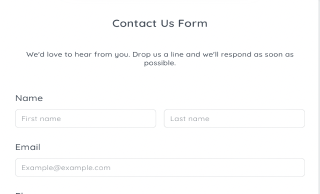
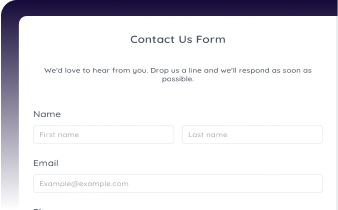
fit: added full home page

diff --git a/src/components/Templates/style.module.css b/src/components/Templates/style.module.css
@@ -1,0 +1,106 @@
+.template {
+    max-width: 1128px;
+    width: 100%;
+    margin-bottom: 80px;
+}
+  
+  .template_wrapper {
+    display: flex;
+    justify-content: space-between;
+    align-items: center;
+    width: 100%;
+}
+  
+.template_wrapper_title {
+    font-family: Quicksand;
+    font-weight: 700;
+    font-size: 32px;
+    line-height: 48px;
+    letter-spacing: 0.4px;
+    color: #3D3D3F;
+}
+  
+.btn_see_more {
+    display: flex;
+    align-items: center;
+    justify-content: space-between;
+    max-width: 110px;
+    width:100%;
+    font-family: Quicksand;
+    font-weight: 500;
+    font-size: 16px;
+    line-height: 20px;
+    letter-spacing: 0.25px;
+    color: #434E5A;
+    border: none;
+    background-color: white;
+}
+  
+  .see_more {
+    /* Your styles for the "See more" text */
+  }
+  
+.teamplate_wrapper_blocks {
+    width: 100%;
+    display: flex;
+    justify-content: space-between ;
+    margin-top: 30px;
+
+}
+  
+  .template_wrapper_block {
+    /* Your styles for each block div */
+  }
+  
+  .templates_background {
+    display: flex;
+    flex-direction: column;
+    max-width: 354px;
+    width: 100%;
+    border: 1px solid #687583;
+    border-radius: 16px;
+    padding-top: 16px;
+    padding-left:16px;
+    position: relative;
+}
+  
+  .contact_us_form_img {
+    /* Your styles for the image */
+  }
+  
+  .title {
+    font-family: Quicksand;
+    font-weight: 700;
+    font-size: 20px;
+    line-height: 25px;
+    letter-spacing: 0.4px;
+    color: #434E5A;
+    margin: 10px 0;
+}
+  
+  .textarea {
+    font-family: Quicksand;
+    font-weight: 400;
+    font-size: 16px;
+    line-height: 20px;
+    color: #434E5A;
+    margin-bottom: 40px;
+}
+  
+  .text {
+    position: absolute;
+    top: 90.5%;
+    right: -1px;
+    font-family: Quicksand;
+    list-style: none;
+    width: 174px;
+    height: 36px;
+    background-color: #3E1AAB;
+    border-radius: 16px 0 16px 0;
+    color:white;
+    display: flex;
+    align-items: center;
+    justify-content: center;
+    align-self: flex-end;
+}
+  

diff --git a/src/components/Templates/index.jsx b/src/components/Templates/index.jsx
@@ -1,0 +1,32 @@
+    import React from 'react'
+    import style from './style.module.css';
+
+    const Templates = ({templateBorder}) => {
+    return <article className={style.template}>
+            <div className={style.template_wrapper}>
+                <h1 className={style.template_wrapper_title}>Templates</h1>
+                <button className={style.btn_see_more}><p className={style.see_more}>See more </p><svg width="16" height="16" viewBox="0 0 16 16" fill="none" xmlns="http://www.w3.org/2000/svg">
+                    <path d="M1 8H15" stroke="#434E5A" strokeLinecap="round" strokeLinejoin="round" />
+                    <path d="M8 1L15 8L8 15" stroke="#434E5A" strokeLinecap="round" strokeLinejoin="round" />
+                </svg>
+                </button>
+            </div>
+            <div className={style.teamplate_wrapper_blocks}>
+                {
+                templateBorder.map((temp, tempIndex) => {
+                        return <div key={tempIndex} className={style.template_wrapper_block}>
+                            <div className={style.templates_background}>
+                                <img src={temp.photo} className={style.contact_us_form_img} />
+                                <h1 className={style.title}>{temp.title}</h1>
+                                <p className={style.textarea}>{temp.textarea}</p>
+                                <li className={style.text}>{temp.text}</li>
+                            </div>
+                        </div>
+                    })
+                }
+            </div>
+        </article>
+    
+    }
+
+    export default Templates

diff --git a/src/components/Integrate/index.jsx b/src/components/Integrate/index.jsx
@@ -1,0 +1,31 @@
+import style from './style.module.css'
+
+
+const Integrate = ({integrate_text}) => {
+    return <article className={style.integrate_your_form}>
+            <div className={style.intergrate_your_form_wrapper}>
+            <div className={style.title}>
+                {
+                   integrate_text.map((inter, interIndex) => {
+                        return <div key={interIndex} className={style.integrate_your_form_tiles}>
+                            <h1 className={style.title}>{inter.title}</h1>
+                            <p className={style.text}>{inter.text}</p>
+                            <p className={style.text}>{inter.text1}</p>
+                            <button className={style.btn_read_more}><p>Read more </p><svg width="16" height="16" viewBox="0 0 16 16" fill="none" xmlns="http://www.w3.org/2000/svg">
+                                <path d="M1 8H15" stroke="#1DCFA9" strokeLinecap="round" strokeLinejoin="round" />
+                                <path d="M8 1L15 8L8 15" stroke="#1DCFA9" strokeLinecap="round" strokeLinejoin="round" />
+                            </svg>
+                            </button>
+                        </div>
+                    })
+                }
+            </div>
+            <div>
+                <img src="images/home/integrate/Apps (1).png" className={style.add_photo} />
+            </div>
+        </div>
+    </article>
+}
+
+
+export default Integrate;

diff --git a/src/app/page.jsx b/src/app/page.jsx
@@ -1,5 +1,5 @@
 "use client"
-import { why_Boom_Form_text , create_dynamic_fields_text, acceptPaymente } from "@/utils/helpers";
+import { why_Boom_Form_text , create_dynamic_fields_text, acceptPaymente , integrate_text ,templateBorder} from "@/utils/helpers";
 
 import style from './page.module.css'
 import Navbar from '@/components/Navbar'
@@ -8,6 +8,11 @@ import { PhotoMenu } from '@/components/PhotoMenu'
 import { WhyBoomForm } from '@/components/WhyBoomForm'
 import { Radio } from "@/components/CreateDynFields";
 import { AcceptPayments } from "@/components/AcceptPayments";
+import Integrate from "@/components/Integrate";
+import Templates from "@/components/Templates";
+import WixWeebly from "@/components/WixWeebly";
+import GiveItTry from "@/components/GiveItTry";
+
 
 export default function Home() {
   return <div className={style.homePage}>
@@ -17,6 +22,10 @@ export default function Home() {
             <WhyBoomForm why_Boom_Form_text={why_Boom_Form_text}/>
             <Radio create_dynamic_fields_text={create_dynamic_fields_text}/>
             <AcceptPayments acceptPaymente={acceptPaymente}/>
+            <Integrate integrate_text={integrate_text}/>
+            <Templates templateBorder={templateBorder}/>
+            <WixWeebly/>
+            <GiveItTry/>
         </div> 
 
 }

diff --git a/src/utils/helpers.js b/src/utils/helpers.js
@@ -33,7 +33,7 @@ export const integrate_text = [
 ]
 
 export const  templateBorder = [
-    { title: "Contact us", textarea: "Apart from contacting you, your users can send their questions, suggestions or even feedback.", photo: "photo/contact.png", text: "Contact Form" },
-    { title: "Contact us", textarea: "Apart from contacting you, your users can send their questions, suggestions or even feedback.", photo: "photo/contact.png", text: "Contact Form" },
-    { title: "Contact us", textarea: "Apart from contacting you, your users can send their questions, suggestions or even feedback.", photo: "photo/contact.png", text: "Contact Form" },
+    { title: "Contact us", textarea: "Apart from contacting you, your users can send their questions, suggestions or even feedback.", photo: "images/home/integrate/contact.png", text: "Contact Form" },
+    { title: "Contact us", textarea: "Apart from contacting you, your users can send their questions, suggestions or even feedback.", photo: "images/home/integrate/contact.png", text: "Contact Form" },
+    { title: "Contact us", textarea: "Apart from contacting you, your users can send their questions, suggestions or even feedback.", photo: "images/home/integrate/contact.png", text: "Contact Form" },
 ]

diff --git a/src/components/WixWeebly/index.jsx b/src/components/WixWeebly/index.jsx
@@ -1,0 +1,21 @@
+import React from 'react';
+import style from "./style.module.css"
+const WixWeebly = () => {
+    return (
+        <article className={style.wixWeebly}>
+            <div className={style.title_trusted}>
+                <h1>Trusted by the most innovative website builder platforms</h1>
+            </div>
+            <div className={style.wix_weebly}>
+                <div className={style.wix}>
+                    <img src="images/home/integrate/Wix-App-Market.png" className={style.wix_photo} />
+                </div>
+                <div>
+                    <img src="images/home/integrate/weeble.png" className={style.weebly} />
+                </div>
+            </div>
+        </article>
+    );
+};
+
+export default WixWeebly;

diff --git a/src/components/Integrate/style.module.css b/src/components/Integrate/style.module.css
@@ -1,0 +1,34 @@
+.integrate_your_form_tiles .title{
+    font-family: Quicksand;
+    font-weight: 700;
+    font-size: 32px;
+    line-height: 48px;
+    letter-spacing: 0.4px;
+    color: #3D3D3F;
+}
+
+.integrate_your_form_tiles .text{
+    font-family: Quicksand;
+    font-weight: 400;
+    font-size: 20px;
+    line-height: 25px;
+    letter-spacing: 0.4px;
+    color: #434E5A;
+}
+.btn_read_more{
+    display: flex;
+    align-items: center;
+    justify-content: space-between;
+    max-width: 110px;
+    width:100%;
+    font-family: Quicksand;
+    font-weight: 500;
+    font-size: 16px;
+    line-height: 20px;
+    letter-spacing: 0.25px;
+    color: #1DCFA9;
+    border: none;
+    background-color: white;
+}
+
+

diff --git a/src/components/WixWeebly/style.module.css b/src/components/WixWeebly/style.module.css
@@ -1,0 +1,34 @@
+.title_trusted h1{
+    font-family: Quicksand;
+    font-weight: 700;
+    font-size: 32px;
+    line-height: 48px;
+    letter-spacing: 0.4px;
+    color: #434E5A;
+}
+  
+
+  .wixWeebly{
+    display: flex;
+    align-items: center;
+    flex-direction: column;
+    gap: 32px;
+    margin-top: 10px;
+    margin-bottom: 140px;
+}
+
+  .wix_weebly {
+    display: flex;
+    justify-content: space-between;
+    max-width: 419px;
+    width: 100%;
+}
+  
+  .wix_photo {
+    opacity: 0.3;
+}
+  
+  .weebly {
+    opacity: 0.3;
+}
+  

diff --git a/src/components/GiveItTry/index.jsx b/src/components/GiveItTry/index.jsx
@@ -1,0 +1,13 @@
+import React from 'react'
+import style from "./style.module.css"
+
+const GiveItTry = () => {
+  return ( 
+      <div className={style.Giv_it_try}>
+            <h1 className={style.Give}>Give it a try </h1>
+            <img src="images/home/integrate/tver.png" className={style.number_photo} />
+        </div>   
+  )
+}
+
+export default GiveItTry

diff --git a/src/components/GiveItTry/style.module.css b/src/components/GiveItTry/style.module.css
@@ -1,0 +1,17 @@
+.Giv_it_try {
+    /* Your styles for the wrapper div */
+  }
+  
+.Give {
+    font-family: Quicksand;
+    font-weight: 700;
+    font-size: 32px;
+    line-height: 48px;
+    letter-spacing: 0.4px;
+    color: #434E5A;
+}
+  
+  .number_photo {
+    /* Your styles for the number photo img */
+  }
+  
